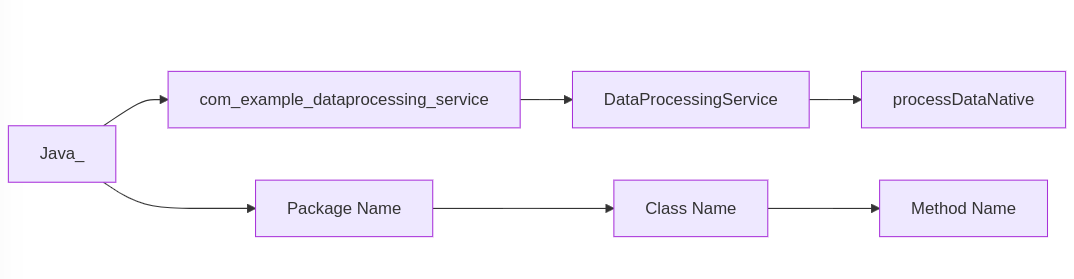
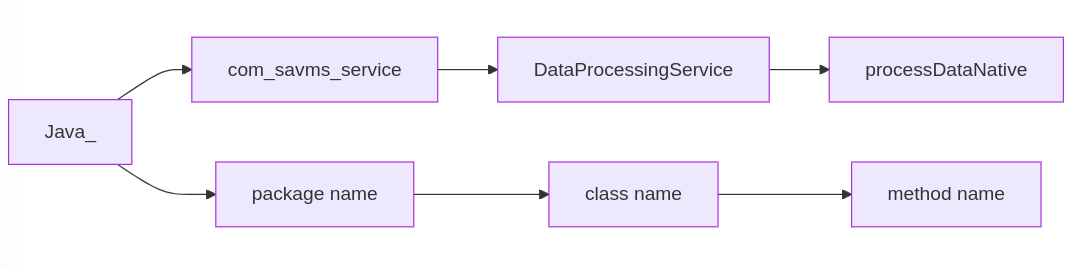
add dependency and update package name

diff --git a/engine/src/jni_interface/dataprocessing_service_DataProcessingService.cpp b/engine/src/jni_interface/dataprocessing_service_DataProcessingService.cpp
@@ -1,11 +1,11 @@
-#include "com_example_dataprocessing_service_DataProcessingService.h"
+#include "dataprocessing_service_DataProcessingService.h"
 #include "../data_collector/data_collector.h"
 #include "../data_processor/data_processor.h"
 #include "../computation_engine/computation_engine.h"
 #include <string>
 #include <vector>
 
-JNIEXPORT jstring JNICALL Java_com_example_dataprocessing_service_DataProcessingService_processDataNative
+JNIEXPORT jstring JNICALL Java_com_savms_service_DataProcessingService_processDataNative
   (JNIEnv *env, jobject, jstring jInput) {
     const char *input = env->GetStringUTFChars(jInput, 0);
     std::string dataSource(input);

diff --git a/engine/src/jni_interface/dataprocessing_service_DataProcessingService.h b/engine/src/jni_interface/dataprocessing_service_DataProcessingService.h
@@ -1,0 +1,17 @@
+#ifndef COM_SAVMS_SERVICE_DATAPROCESSINGSERVICE_H
+#define COM_SAVMS_SERVICE_DATAPROCESSINGSERVICE_H
+
+#include <jni.h>
+
+#ifdef __cplusplus
+extern "C" {
+#endif
+
+JNIEXPORT jstring JNICALL Java_com_savms_service_DataProcessingService_processDataNative
+  (JNIEnv *, jobject, jstring);
+
+#ifdef __cplusplus
+}
+#endif
+
+#endif // COM_SAVMS_SERVICE_DATAPROCESSINGSERVICE_H

diff --git a/src/main/java/com/savms/config/LibraryLoaderConfig.java b/src/main/java/com/savms/config/LibraryLoaderConfig.java
@@ -2,7 +2,7 @@ package com.savms.config;
 
 import org.springframework.beans.factory.annotation.Value;
 import org.springframework.context.annotation.Configuration;
-import javax.annotation.PostConstruct;
+import jakarta.annotation.PostConstruct;
 import java.io.File;
 
 @Configuration
